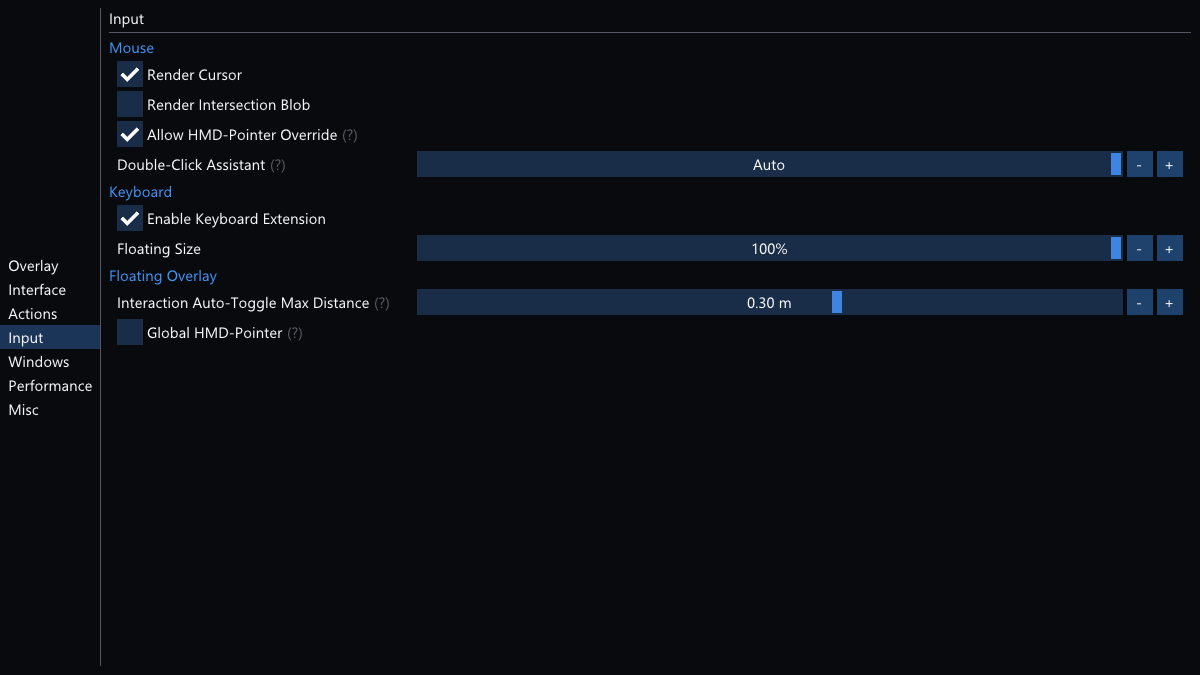
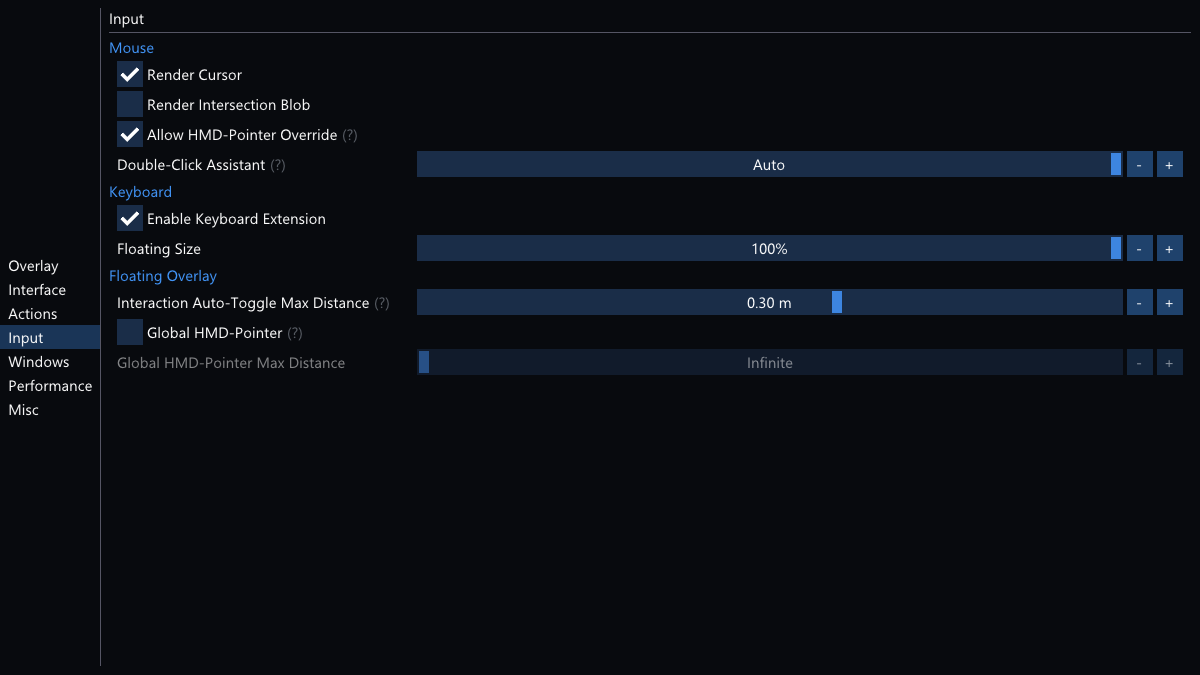
Update documentation, bump version to 2.6

Changed region(s): [[0.3392, 0.4978, 0.9867, 0.56], [0.0925, 0.5289, 0.2775, 0.56]]

diff --git a/src/DesktopPlusUI/WindowSettings.cpp b/src/DesktopPlusUI/WindowSettings.cpp
@@ -3015,7 +3015,7 @@ void WindowSettings::UpdateCatMisc()
         ImGui::Columns(2, "ColumnVersionInfo", false);
         ImGui::SetColumnWidth(0, column_width_0 * 2.0f);
 
-        ImGui::Text("Desktop+ Version 2.5.5 Beta");
+        ImGui::Text("Desktop+ Version 2.6");
 
         ImGui::Columns(1);
     }

diff --git a/docs/user_guide.md b/docs/user_guide.md
@@ -139,13 +139,15 @@ In that case, a "(!)" warning is displayed next to this section's title and it's
   Swaps which eye gets each split up part of the overlay image.
 
 - **Gaze Fade** (Other Overlays)  
-Gaze Fade gradually fades the overlay to 0% opacity when not looking at it. When the overlay is at 0% opacity it is considered inactive and will not react to laser pointer input.
+Gaze Fade gradually fades the overlay to the target opacity when not looking at it. When the overlay is at 0% opacity it is considered inactive and will not react to laser pointer input.
   - **Gaze Fade Active**:  
   Activates Gaze Fade for the overlay.
   - **Gaze Distance**:  
   Distance of the gaze point from the HMD. Put the slider to the leftmost value to set it to "Infinite".
   - **Fade Rate**:  
   Rate at which the fading occurs. As Gaze Fade only takes the center point of the overlay in account, adjusting this value depending on the overlay size is recommended.
+  - **Target Opacity**:  
+  Opacity to fade towards. If this is set higher than the overlay's opacity, it inverts the Gaze Fade behavior (fading in when looking away).
   - **[Set from Gaze]**:  
   Configure Gaze Distance and Fade Rate values automatically from the current gaze and overlay settings. After clicking, a pop-up will appear asking to look at the overlay for 3 seconds.
 
@@ -262,8 +264,10 @@ Custom icons for these actions can be added by putting PNG files in the "images/
   - **Interaction Auto-Toggle Max Distance**:  
   Maximum allowed distance between overlay and pointing controller to automatically toggle interaction mode while the dashboard is closed. Set this to "Off" when using the global controller binding toggle.
   - **Global HMD-Pointer**:  
-  Enables using HMD gaze to point at Desktop+ overlays while the dashboard is closed. The Interaction Auto-Toggle Max Distance value is used here as well to limit the maximum pointing distance.  
+  Enables using HMD gaze to point at Desktop+ overlays while the dashboard is closed.  
   This option only allows to move the mouse cursor with the HMD gaze, no other inputs. It is mainly useful to change focus, get the cursor to window overlays and then use the physical mouse to continue the interaction.
+  - **Global HMD-Pointer Max Distance**:  
+  Maximum allowed distance between overlay and HMD when Global HMD-Pointer is enabled. Put the slider to the leftmost value to set it to "Infinite".
   
 #### Windows
 
@@ -411,24 +415,26 @@ For this to work, the following conditions have to be met:
 
 - Application has to run in exclusive fullscreen mode
 - VSync has to be disabled
-- Fullscreen optimizations have to be disabled*
+- Fullscreen optimizations have to be disabled<sup>1</sup>
 
-<sub>* May not be required for certain games using OpenGL or Vulkan to render.</sub>
+<sub><sup>1</sup> May not be required for certain games using OpenGL or Vulkan to render.</sub>
 
 Fullscreen optimizations can be disabled on a per-application basis in the Compatibility tab of the executable's properties window on Windows 10 version 1803 or newer.
 
 #### Graphics Capture
 
-- Supported on systems with Windows 10 version 1803 and newer*
+- Supported on systems with Windows 10 version 1803 and newer<sup>1</sup>
 - Mirrors desktops or windows
-- Cursor movement at source monitor refresh rate
+- Cursor movement at source monitor refresh rate<sup>2</sup>
 - Always updates at monitor refresh rate
 - Supports direct mirroring of occluded windows
 - Additional Desktop+ features for window overlays
-- Draws yellow rectangle over mirrored sources (not visible in the capture)
+- Draws yellow rectangle over mirrored sources (not visible in the capture)<sup>3</sup>
 - More efficient than Desktop Duplication
 
-<sub>* Windows 10 version 1803 is required for limited support, version 2004 for full support.</sub>
+<sup><sup>1</sup> Windows 10 version 1803 is required for limited support, version 2004 for full support.</sup>  
+<sup><sup>2</sup> Active Graphics Capture by any application on the system disables the hardware cursor, limiting cursor updates for Desktop Duplication captures as well.</sup>  
+<sup><sup>3</sup> Not the case on Windows 11 or newer</sup>  
 
 ##### Graphics Capture Feature Support
 
